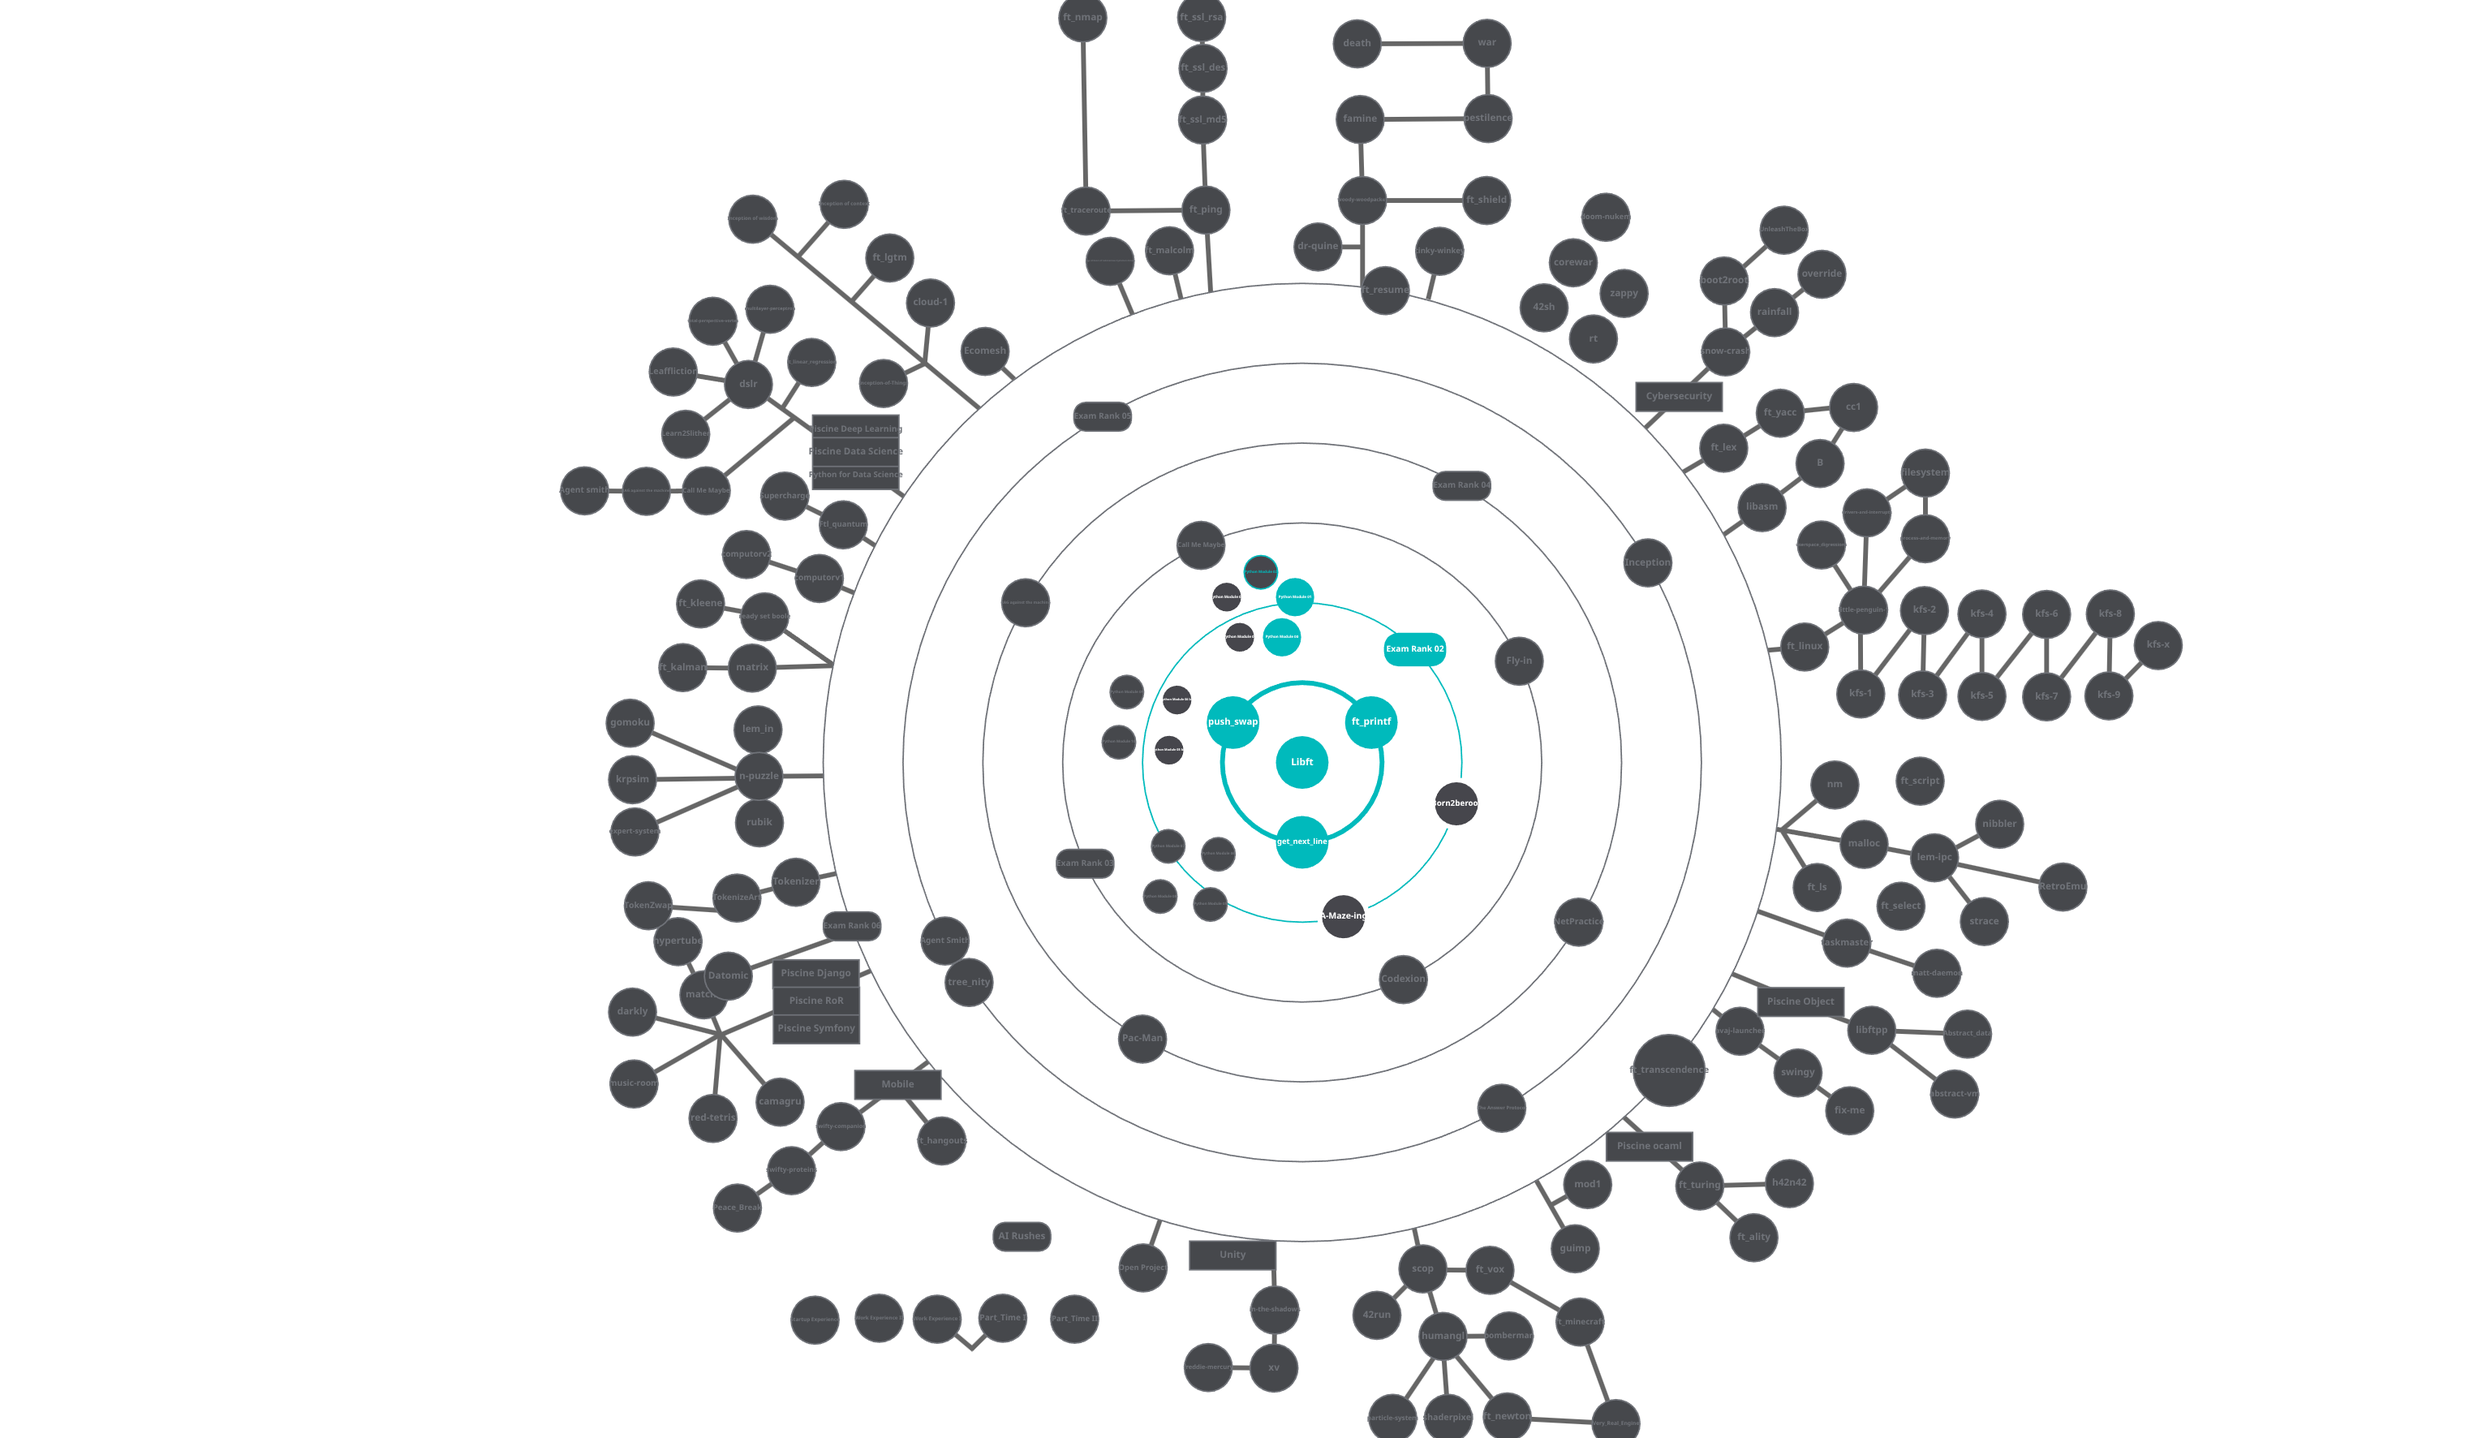
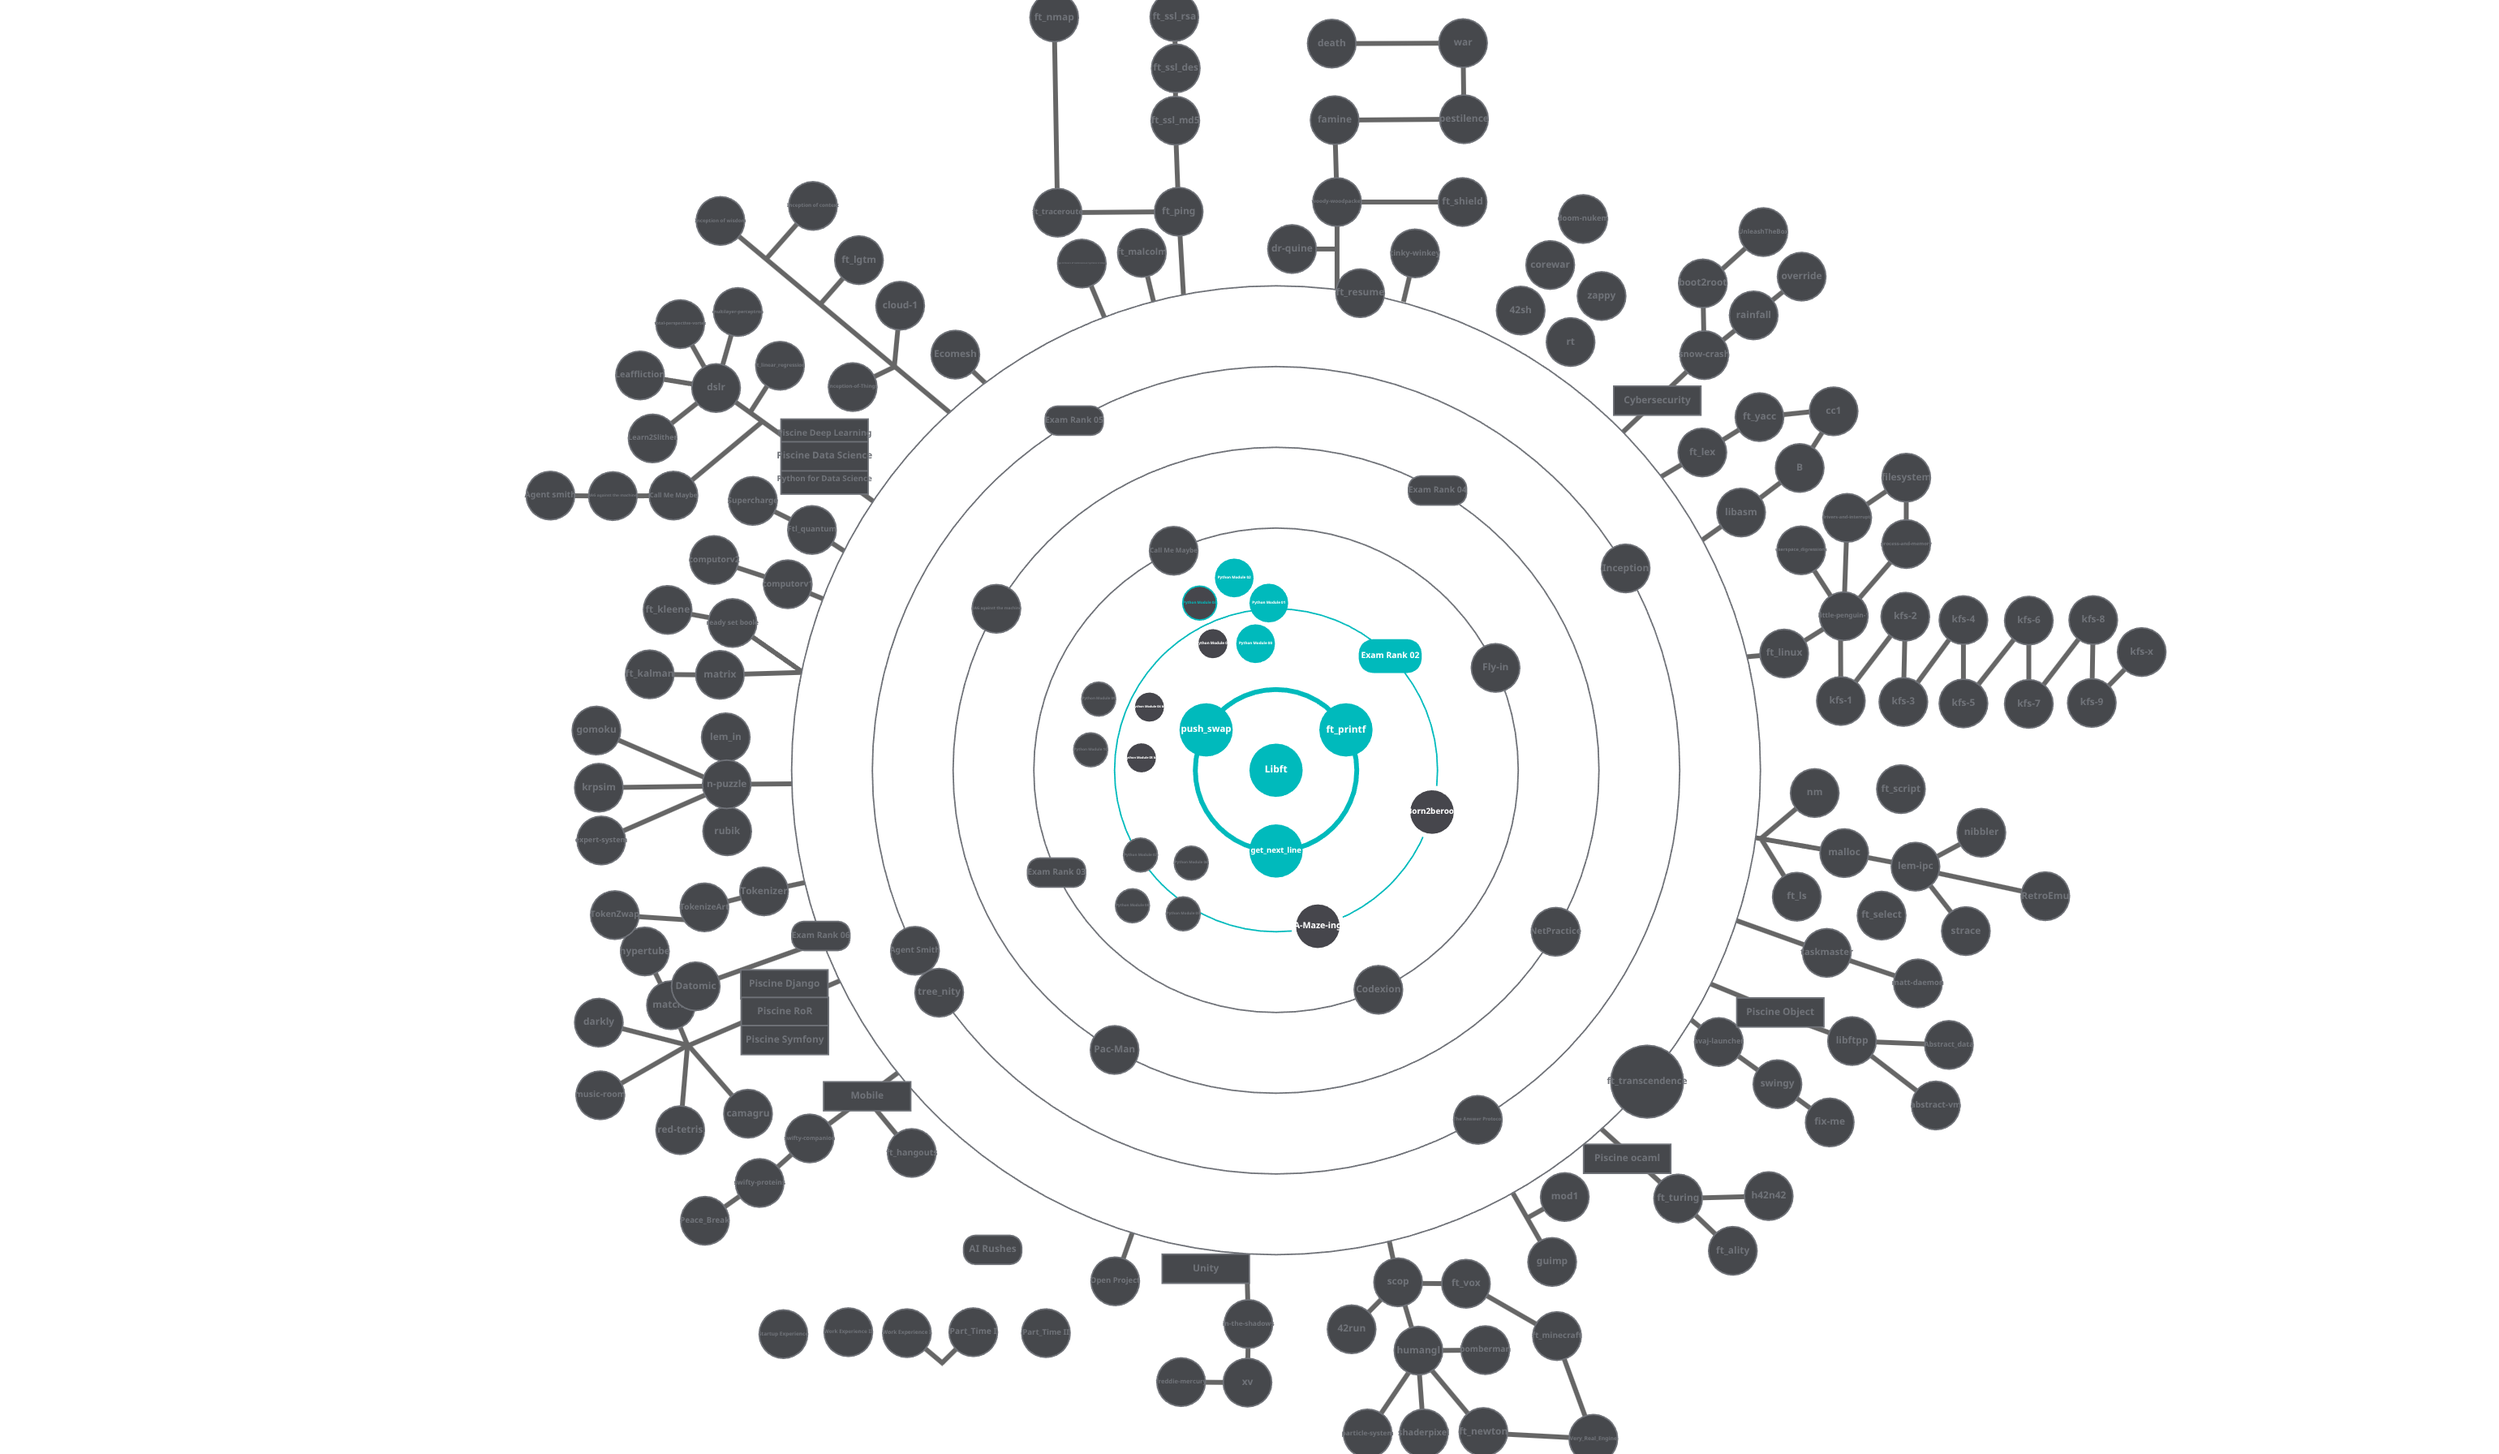
Actualizacion readme y py 3 2

diff --git a/M2/Python_Module_03/ex2/ft_coordinate_system.py b/M2/Python_Module_03/ex2/ft_coordinate_system.py
@@ -1,0 +1,47 @@
+import math
+
+
+def get_player_pos() -> tuple[float, float, float]:
+    while True:
+        nums = input("Enter new coordinates as floats in format 'x,y,z': ")
+        parts = nums.split(",")
+        if len(parts) != 3:
+            print("Invalid syntax")
+            continue
+        coords: list[float] = []
+        for part in parts:
+            cleaned = part.strip()
+            try:
+                coords.append(float(cleaned))
+            except ValueError as e:
+                print(f"Error on parameter '{cleaned}': {e}")
+                break
+        else:
+            return (coords[0], coords[1], coords[2])
+
+
+def calc_distance(
+    p1: tuple[float, float, float], p2: tuple[float, float, float]
+) -> float:
+    return math.sqrt(
+        (p2[0] - p1[0]) ** 2 + (p2[1] - p1[1]) ** 2 + (p2[2] - p1[2]) ** 2
+    )
+
+
+if __name__ == "__main__":
+    print("=== Game Coordinate System ===")
+    print(" ")
+
+    print("Get a first set of coordinates")
+    pos1 = get_player_pos()
+    print(f"Got a first tuple: {pos1}")
+    x1, y1, z1 = pos1
+    print(f"It includes: X={x1}, Y={y1}, Z={z1}")
+    center = (0.0, 0.0, 0.0)
+    print(f"Distance to center: {calc_distance(center, pos1):.4f}")
+    print(" ")
+
+    print("Get a second set of coordinates")
+    pos2 = get_player_pos()
+    dist = calc_distance(pos1, pos2)
+    print(f"Distance between the 2 sets of coordinates: {dist:.4f}")

diff --git a/M2/Python_Module_03/ex1/ft_score_analytics.py b/M2/Python_Module_03/ex1/ft_score_analytics.py
@@ -14,8 +14,6 @@ if __name__ == "__main__":
                 lst.append(int(arg))
             except ValueError:
                 print(f"Invalid parameter: '{arg}'")
-                print("No scores provided. Usage: python3 "
-                      "ft_score_analytics.py <score1> <score2> ...")
                 valid = False
         if valid is True:
             ac = len(sys.argv)
@@ -25,3 +23,6 @@ if __name__ == "__main__":
             print(f"High score: {max(lst)}")
             print(f"Low score: {min(lst)}")
             print(f"Score range: {max(lst) - min(lst)}")
+        else:
+            print("No scores provided. Usage: python3 "
+                  "ft_score_analytics.py <score1> <score2> ...")

diff --git a/README.md b/README.md
@@ -70,14 +70,14 @@ El directorio está estructurado de manera modular, dividiendo los entregables p
     </tr>
     <tr>
       <td align="left"><a href="./M2/Python_Module_02"><strong>Python_Module_02</strong></a></td>
-      <td align="center">🔵 En curso</td>
+      <td align="center">🟢 Completado</td>
       <td align="left">Manejo de excepciones (<code>try/except/finally</code>), <code>raise</code> y errores personalizados</td>
       <td align="center">Python</td>
     </tr>
     <tr>
       <td align="left"><a href="./M2/Python_Module_03"><strong>Python_Module_03</strong></a></td>
       <td align="center">🔵 En curso</td>
-      <td align="left">Herencia y polimorfismo</td>
+      <td align="left">Manipulación de listas, tuplas, conjuntos y diccionarios, generadores (<code>yield</code>) y <em>comprehensions</td>
       <td align="center">Python</td>
     </tr>
     <tr>
